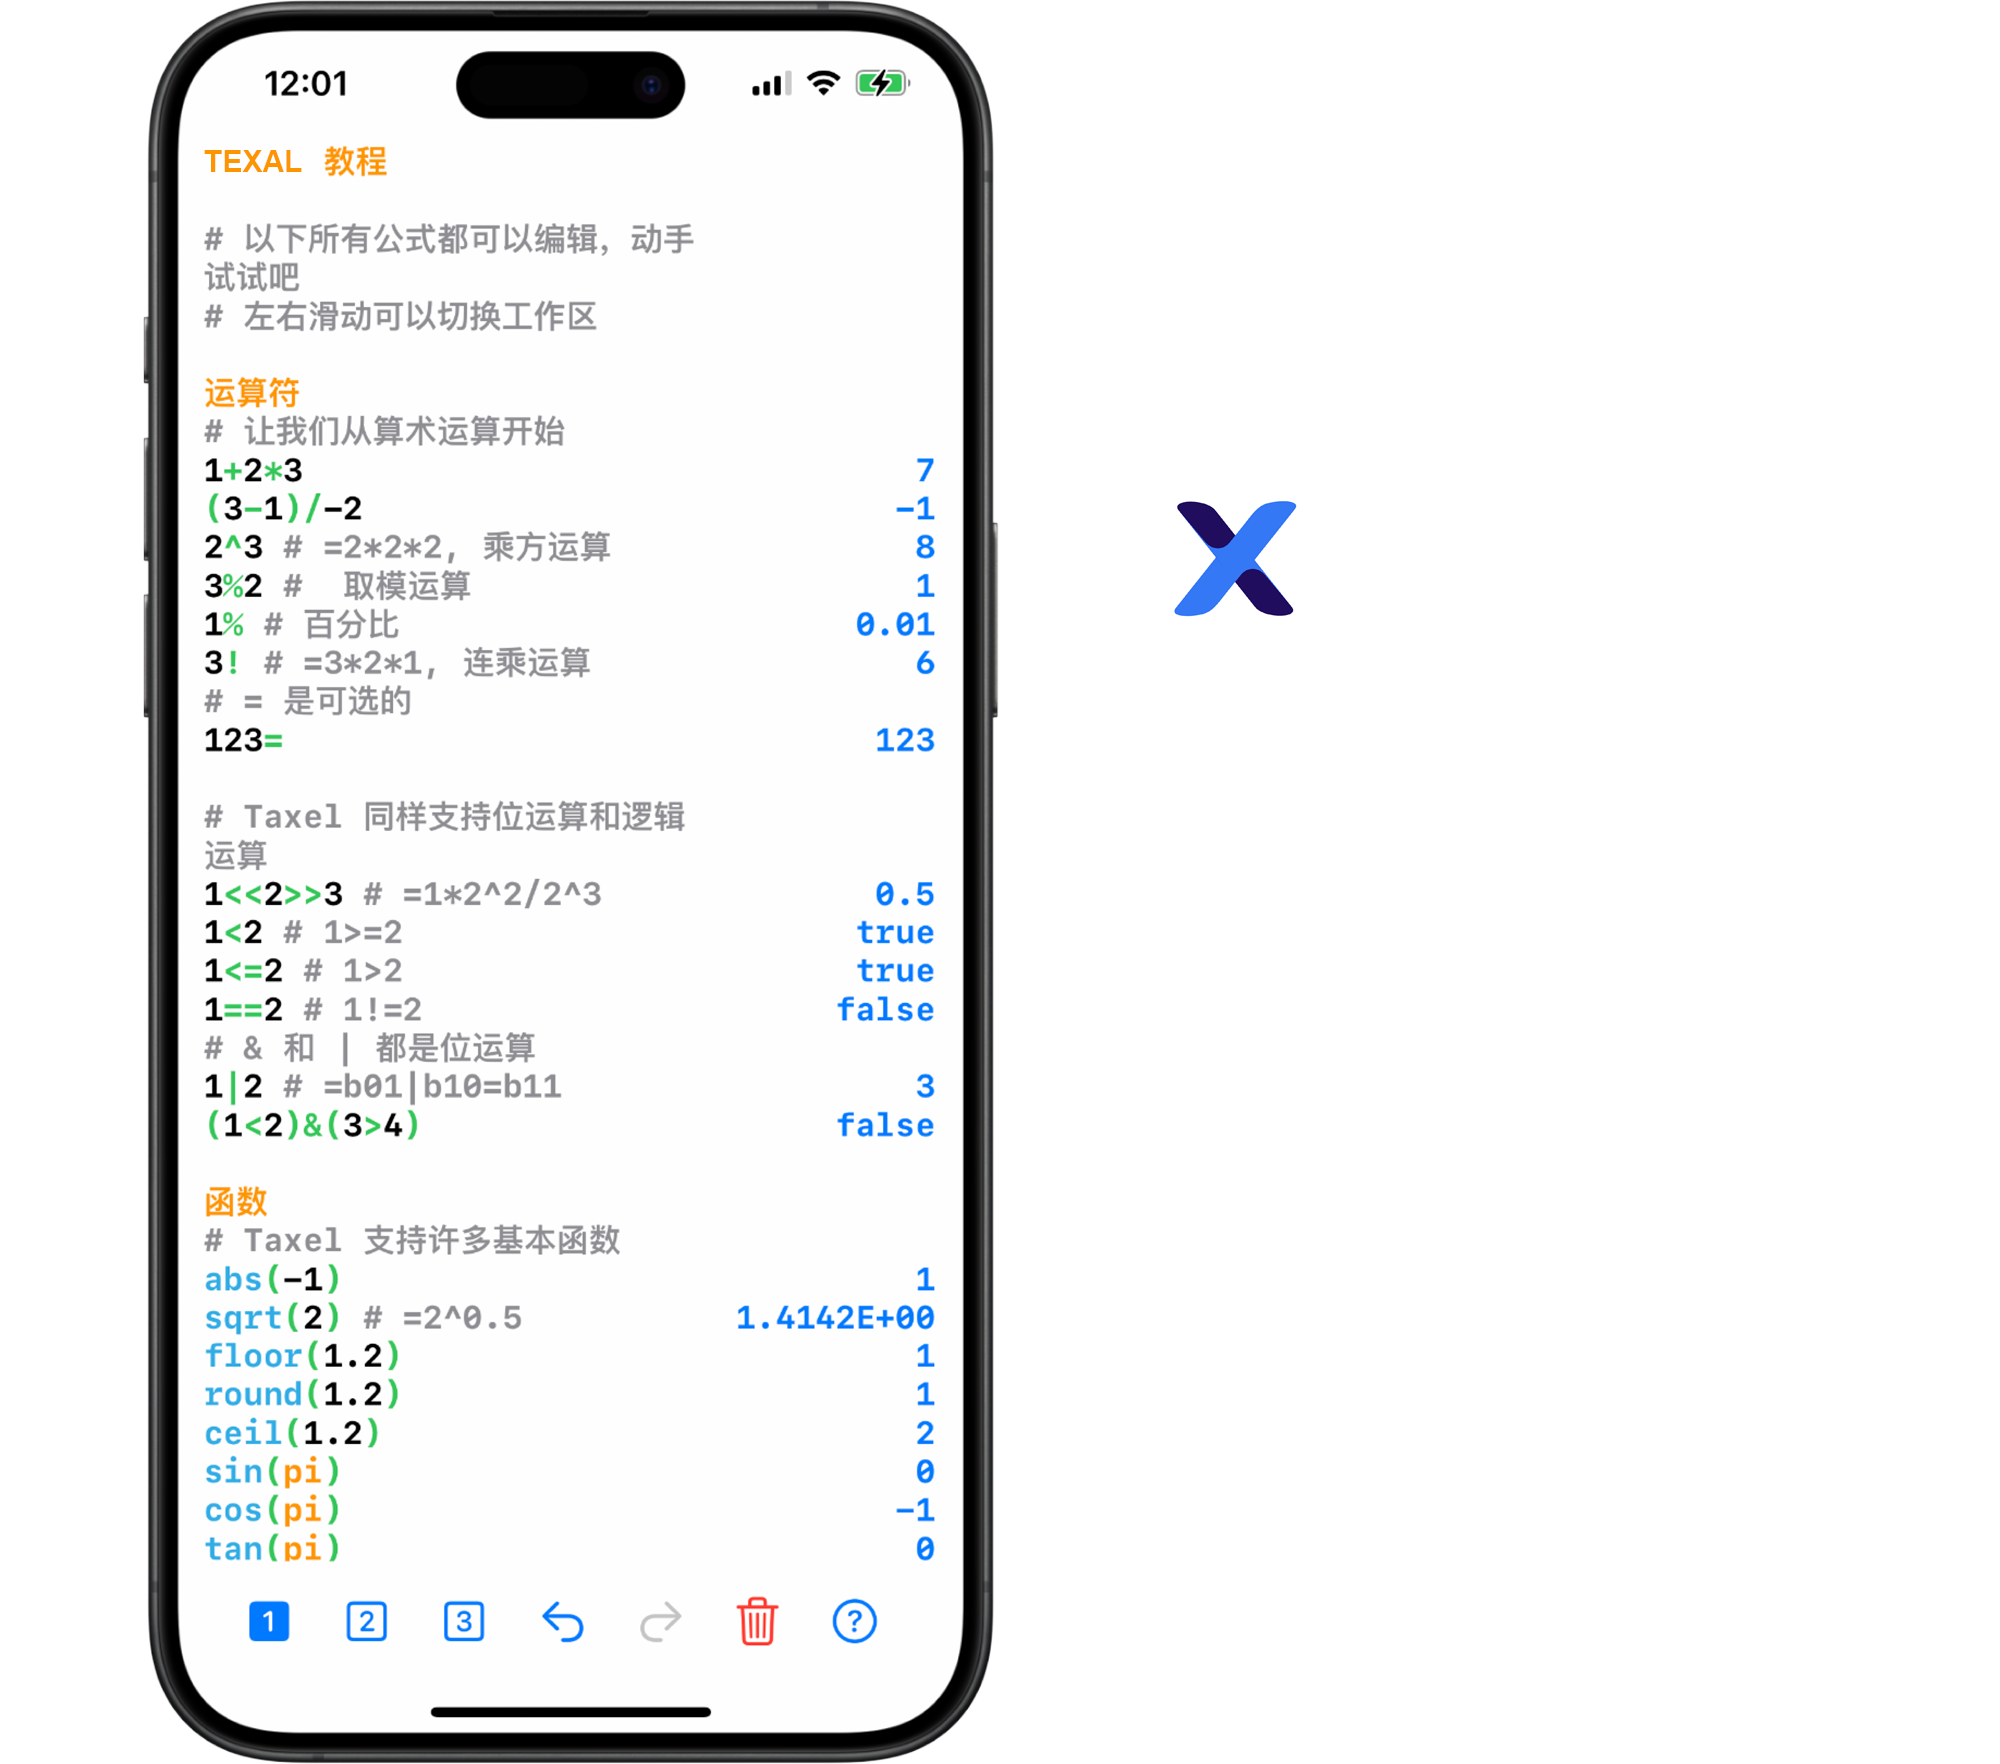
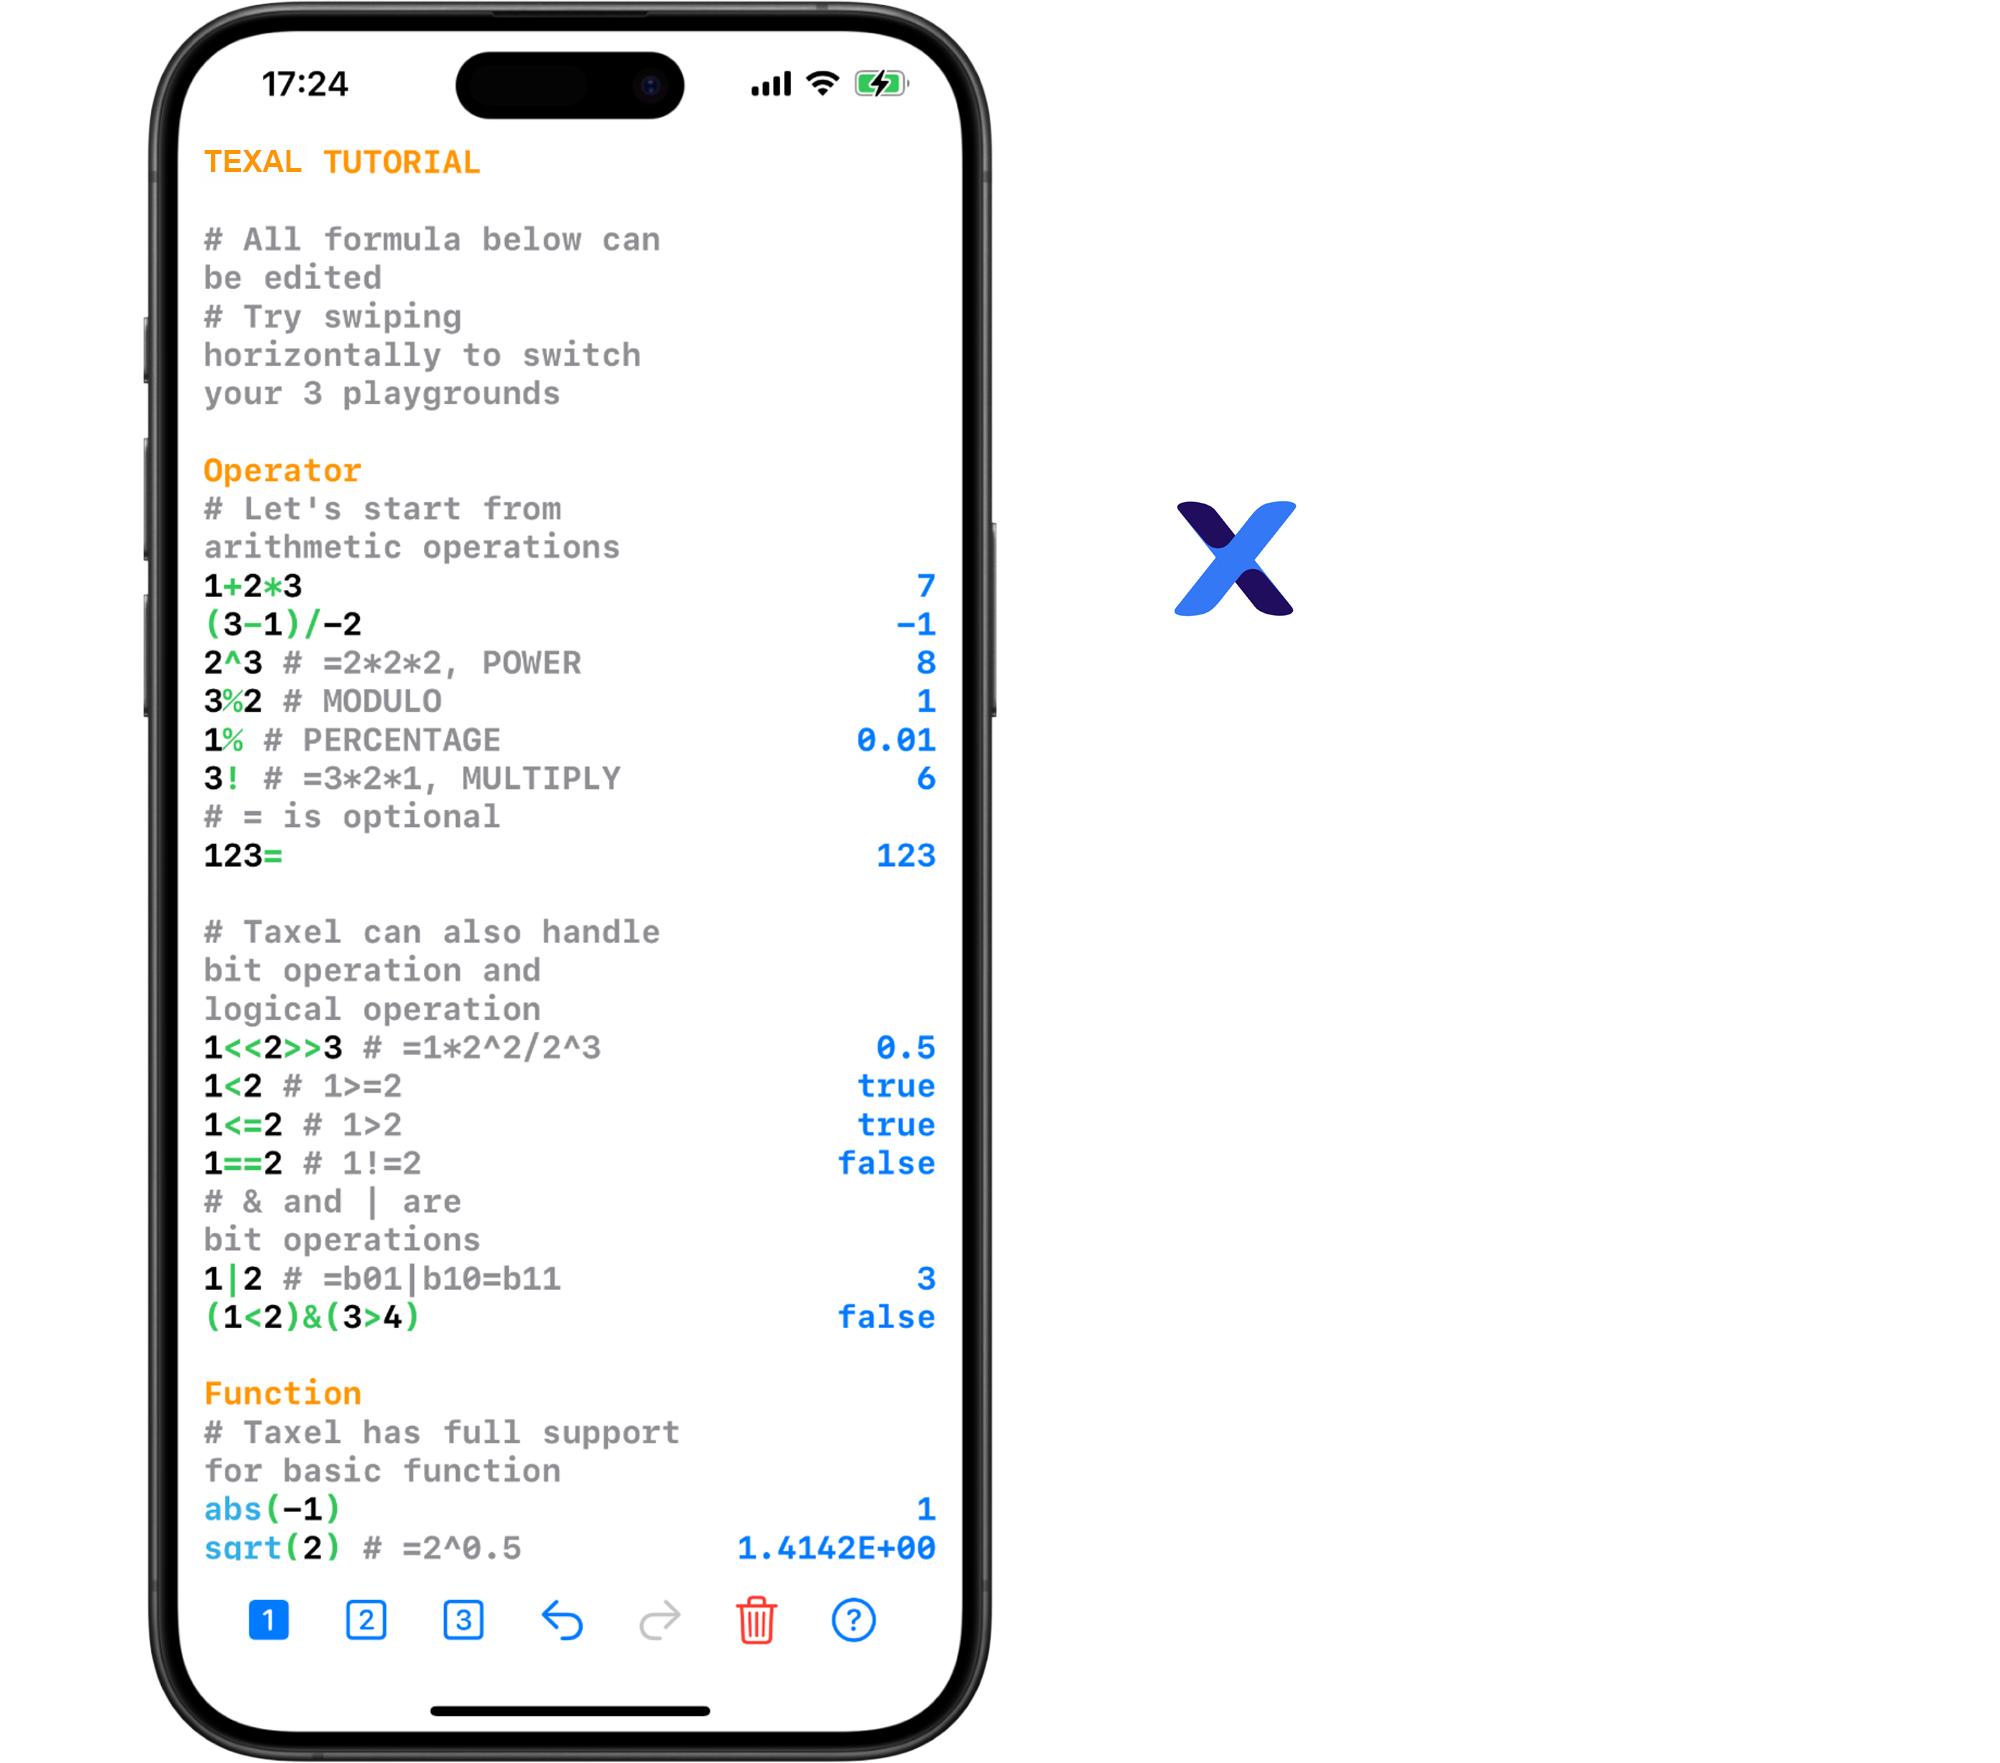
add Texal content

diff --git a/content/development/texal/index.md b/content/development/texal/index.md
@@ -9,9 +9,9 @@ tags:
   - Developments
 ---
 
-![Texal](https://s2.loli.net/2023/12/02/I4BCGpbqijUTzYk.png)
+![Texal](https://s2.loli.net/2023/12/02/wVe4OpM8aYCIcn2.png)
 
 ### Tutorial
 Texal support rich representations, including operators, functions, variables, digital systems and high-level expressions.
 
-![Tutorial](https://s2.loli.net/2023/12/02/6ZSbxL3yWT2Kmjc.png)
+![Tutorial](https://s2.loli.net/2023/12/02/ynjbLhkUMtOQvo2.jpg)
